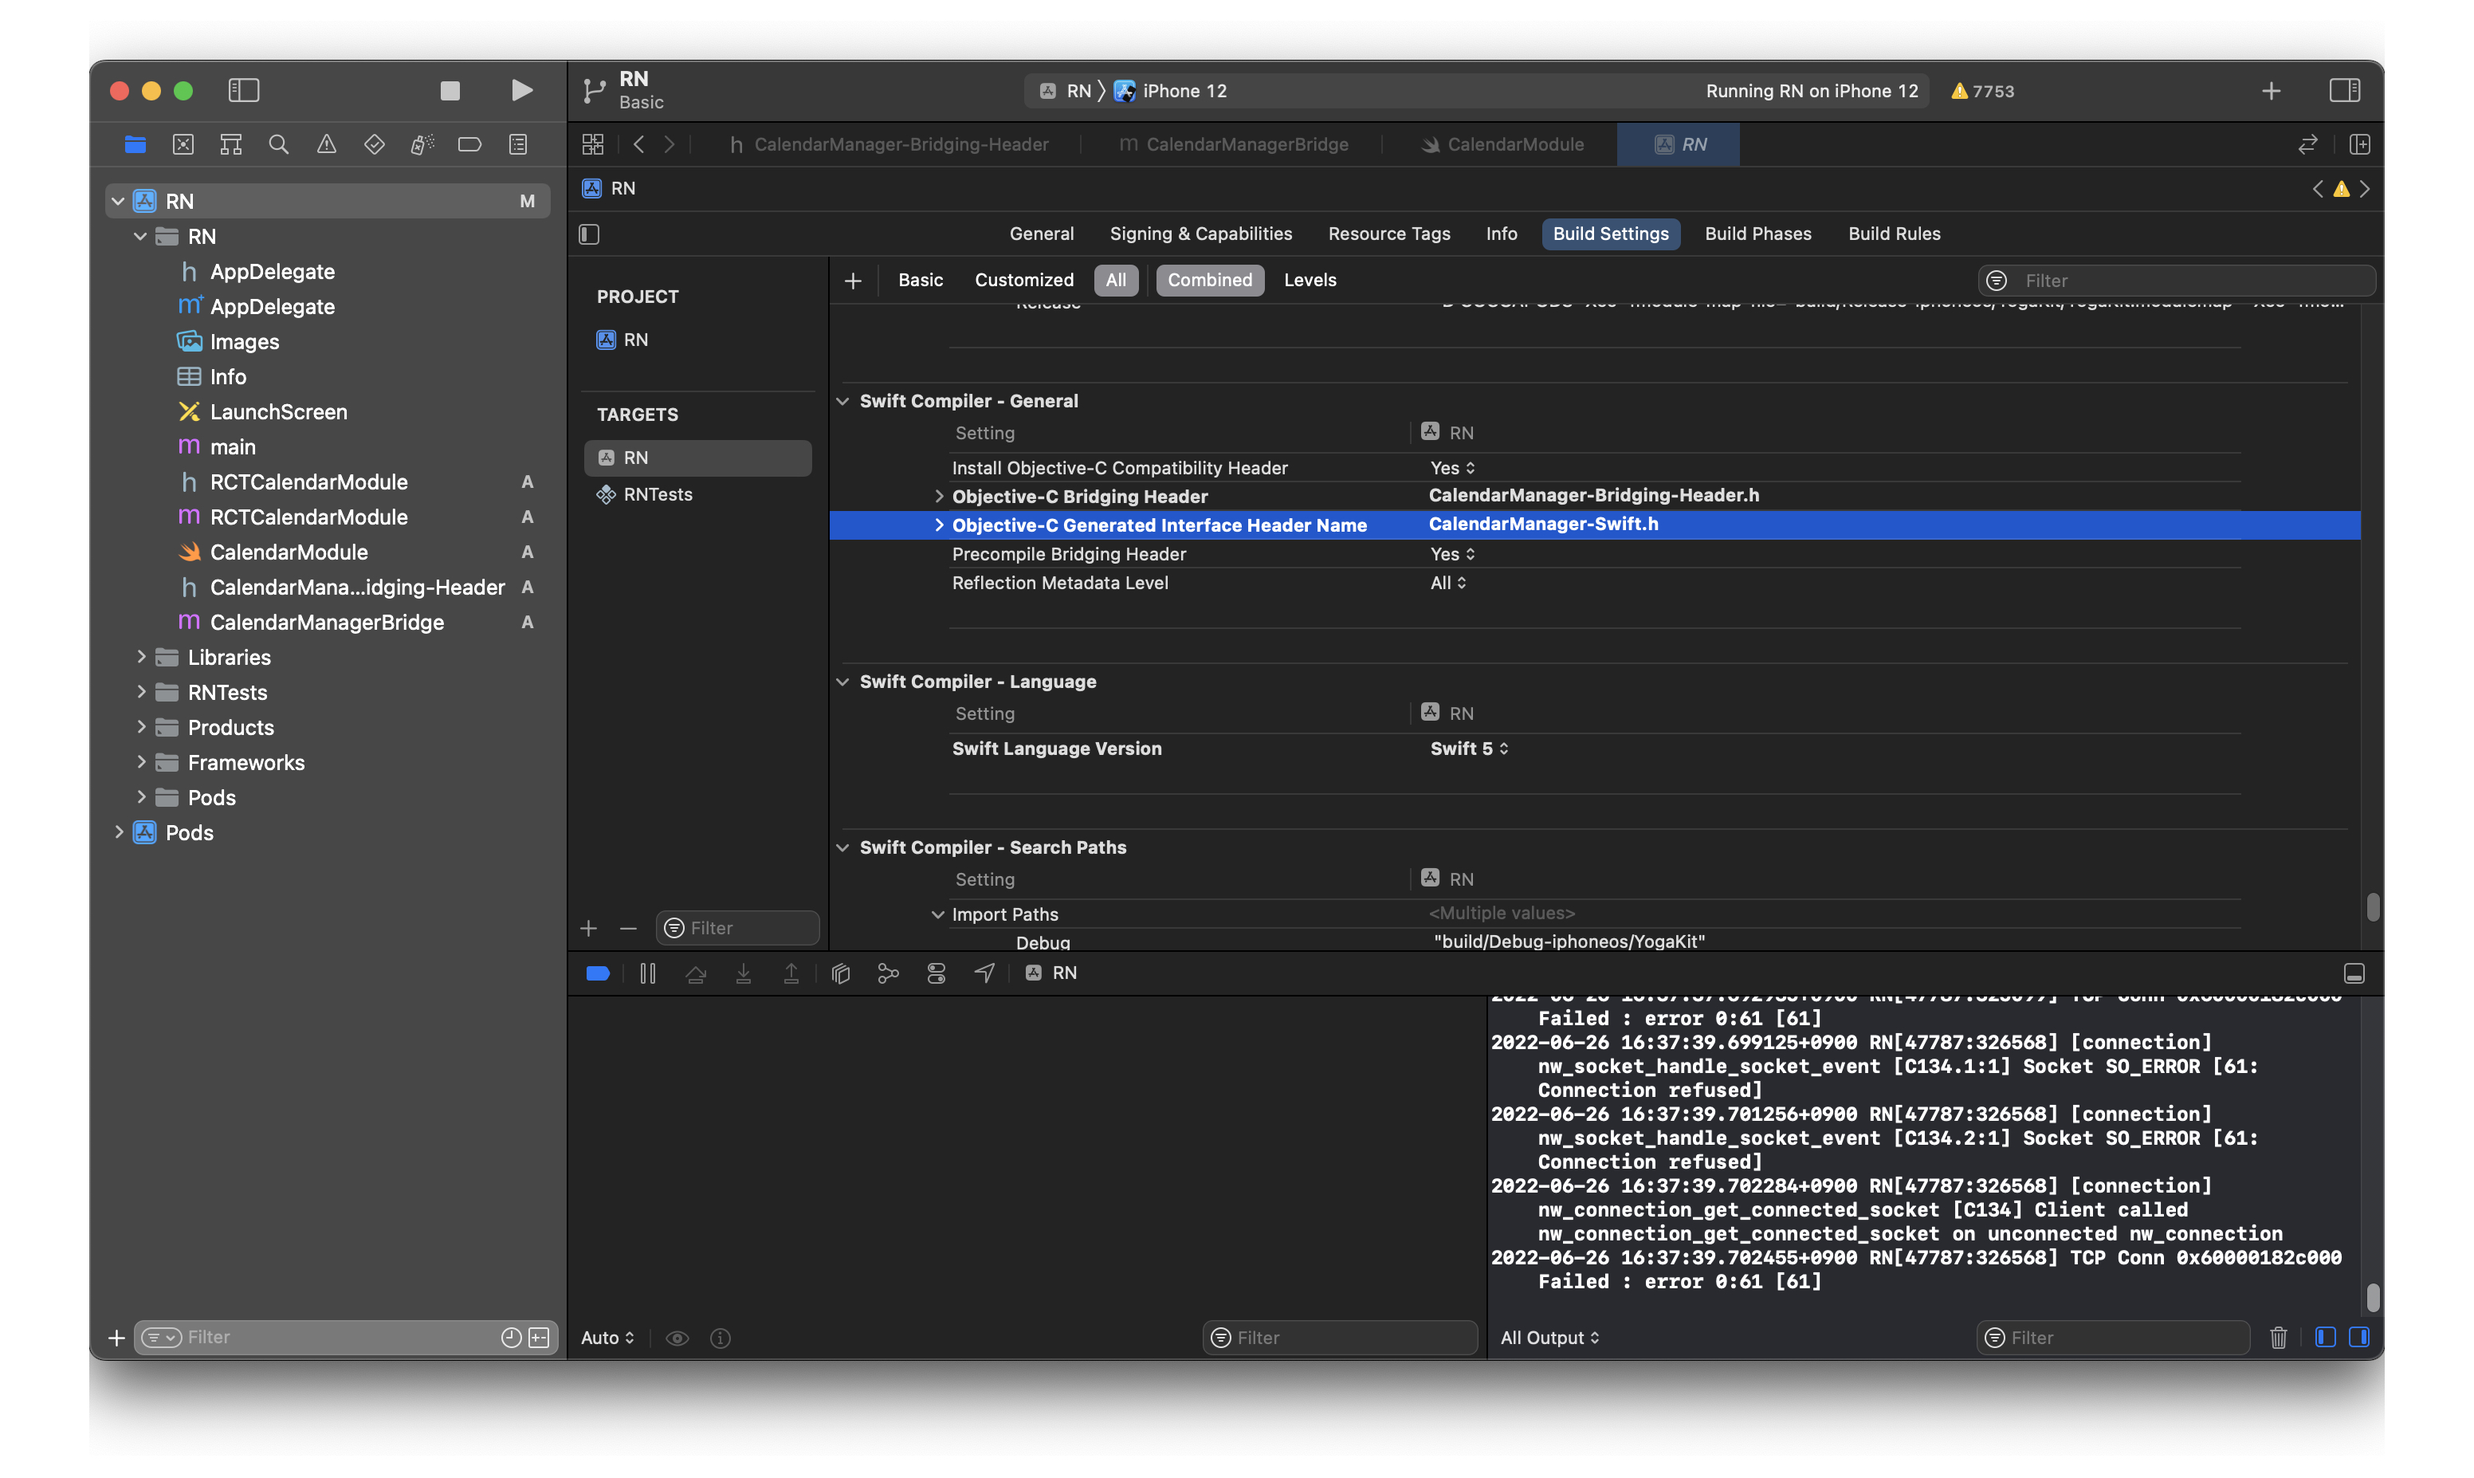
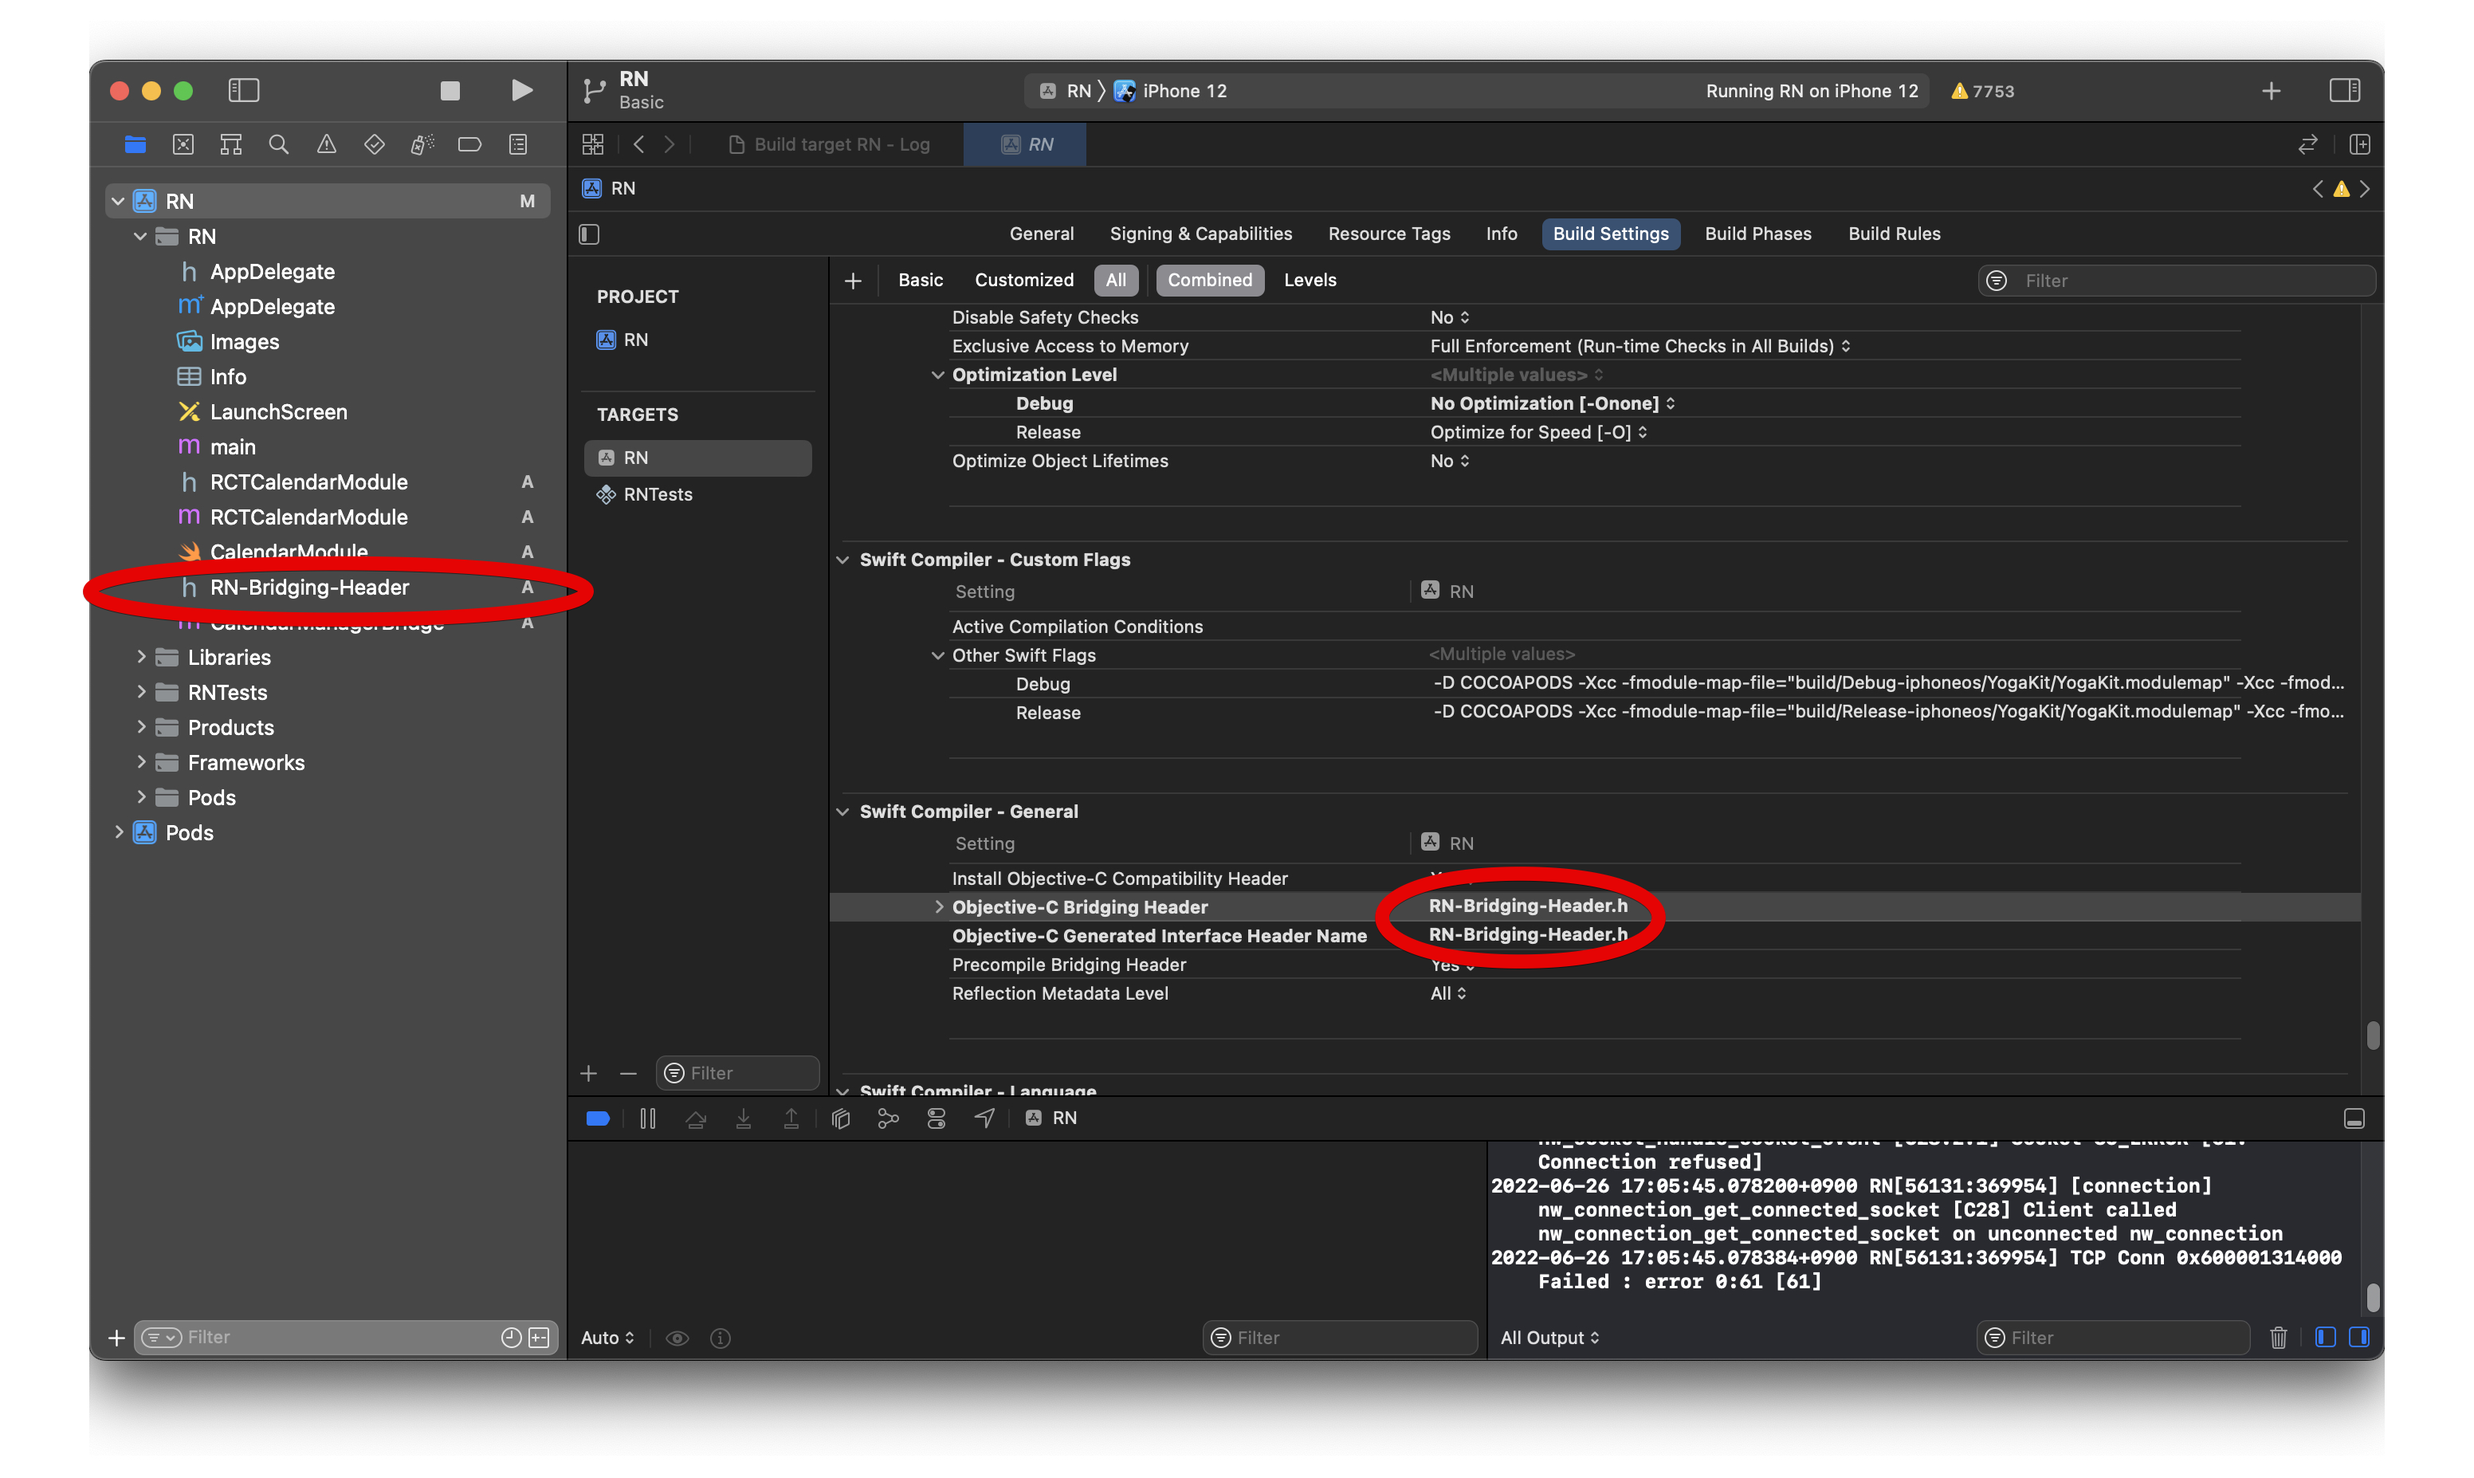
RN Native Module Handling 추가설명

diff --git a/RN/[RN] IOS 네이티브 모듈 다루기.md b/RN/[RN] IOS 네이티브 모듈 다루기.md
@@ -1,0 +1,158 @@
+# 서론
+
+오늘은 RN에서 IOS 네이티브 모듈과 직접 통신하는 방법에 관해서 알아보도록 하겠습니다. 
+
+# 본론
+
+## 네이티브 모듈 export/import
+
+먼저, Xcode 상에서 새로운 Object-C 파일을 생성해줍시다. 간단하게, console 상에 값을 출력하는 간단한 기능을 수행할 것입니다. 
+
+### Object-C 모듈/메서드 내보내기
+
+```c
+// RTCCalendarModule.h
+#import <React/RCTBridgeModule.h>
+@interface RCTCalendarModule : NSObject <RCTBridgeModule>
+@end
+```
+
+헤더파일에 RCTBridgeModule 모듈을 항상 불러와줍니다. 그래야, JS와 Object-C 간에 통신이 가능합니다. 
+
+```c
+// RCTCalendarModule.m
+#import "RCTCalendarModule.h"
+#import <React/RCTLog.h>
+@implementation RCTCalendarModule
+
+RCT_EXPORT_METHOD(createCalendarEvent:(NSString *)name location:(NSString *)location)
+{
+ RCTLogInfo(@"Pretending to create an event %@ at %@", name, location);
+}
+
+// RCTCalendarModule이라는 모듈을 내보내려면 
+RCT_EXPORT_MODULE(RCTCalendarModule);
+
+@end
+```
+
+이제, 간단하게 RN에서 받아온 값을 출력하는 코드를 작성하였습니다. 특이한 점은 작성한 메서드와 모듈은 RCT_EXPORT_MODULE, RCT_EXPORT_METHOD로 직접 Export 해줘야 한다는 점입니다.
+
+### Javascript 파일에서 불러오기
+
+```javascript
+import React from 'react';
+import { NativeModules, Button } from 'react-native';
+const { CalendarModule } = NativeModules;
+
+const NewModuleButton = () => {
+  const onPress = () => {
+    CalendarModule.createCalendarEvent('testName', 'testLocation');
+  };
+
+  return (
+    <Button
+      title="Click to invoke your native module!"
+      color="#841584"
+      onPress={onPress}
+    />
+  );
+};
+
+export default NewModuleButton;
+```
+
+react-native에서 제공하는 NativeModules에 Object-C 모듈 명을 적어준 뒤, Xcode 상에서 IOS 앱 빌드를 재실행해줍니다. 만약 제대로 실행되지 않으면 Xcode의 캐쉬를 제거한 후 다시 시도해보아야 합니다. 
+
+### Object-C 파일 대신 Swift 파일 띄우기
+
+이번엔 Swift 파일을 띄워보도록 하겠습니다. Object-C 파일을 띄울 때에 비해, 하나의 과정이 추가됩니다. Swift를 사용하여 Xcode 프로젝트를 빌드하려면, 기본 앱 프로젝트에 `Swift 코드`와 `브리징 헤더` 자체가 포함되어야 합니다. 브리징 헤더는 Object-C 파일을 Swift에 노출시키는 역할을 합니다.
+
+```C
+// CalendarManagerBridge.m
+#import <React/RCTBridgeModule.h>
+
+@interface RCT_EXTERN_MODULE(CalendarManager, NSObject)
+
+RCT_EXTERN_METHOD(addEvent:(NSString *)name location:(NSString *)location date:(nonnull NSNumber *)date)
+
+@end
+```
+
+```C
+// CalendarManager-Bridging-Header.h
+#import <React/RCTBridgeModule.h>
+
+```
+
+마찬가지로 위의 경우처럼 헤더 파일을 설정해줍니다. 
+
+```C
+#import <React/RCTBridgeModule.h>
+
+@interface RCT_EXTERN_MODULE(CalendarManager, NSObject)
+
+RCT_EXTERN_METHOD(addEvent:(NSString *)name location:(NSString *)location date:(nonnull NSNumber *)date)
+
+@end
+```
+
+Swift 모듈과 메서드를 Bridge 파일에서 export 해줌으로써, Object-C에서 Swift 파일을 불러올 수 있게 됩니다. 
+
+```swift
+@objc(CalendarManager)
+class CalendarManager: NSObject {
+
+ @objc(addEvent:location:date:)
+ func addEvent(_ name: String, location: String, date: NSNumber) -> Void {
+   // print name, location, date 
+   print(name, location, date);
+ }
+
+ @objc
+ func constantsToExport() -> [String: Any]! {
+   return ["someKey": "someValue"]
+ }
+}
+```
+
+브릿지 헤더의 이름은 아래와 같이, X-Code에서도 수정해줘야 합니다. `Target -> Built Settings -> Objective-C Bridging Header`로 접근할 수 있습니다. 
+
+[Swift-Header](./Swift-Header.png)
+
+저는 RN-Bridge-Manager란 이름으로 설정해줬습니다.
+
+### Javascript 파일에서 불러오기
+
+```javascript
+import React from 'react';
+import { NativeModules, Button } from 'react-native';
+const { CalendarManager } = NativeModules;
+
+const NewModuleButton = () => {
+  const onPress = () => {
+    CalendarManager.addEvent('Swift Test', 'Test Location', 2022);
+  };
+
+  return (
+    <Button
+      title="Click to invoke your native module!"
+      color="#841584"
+      onPress={onPress}
+    />
+  );
+};
+
+export default NewModuleButton;
+```
+
+앞서 작성했던 Swift 파일을 Javascript 파일에서 불러오기 위해, Module 명을 수정해줍니다. 이 때, swift 파일에서 Object-C로 등록할 때 사용한 이름을 써줍니다. 
+
+# 마무리
+
+이상으로 간단하게 RN에서 IOS Native Module과 통신하는 방법에 알아보았습니다. 읽어주셔서 감사합니다. 
+
+# 참고한 사이트
+
+[ReactNative에서 IOS Native Modules 사용하기](https://runebook.dev/ko/docs/react_native/native-modules-ios)
+[ReactNative에서 IOS Native Modules 사용하기 (영상)](https://www.youtube.com/watch?v=DREQwNb99l0&ab_channel=UnsureProgrammer)
